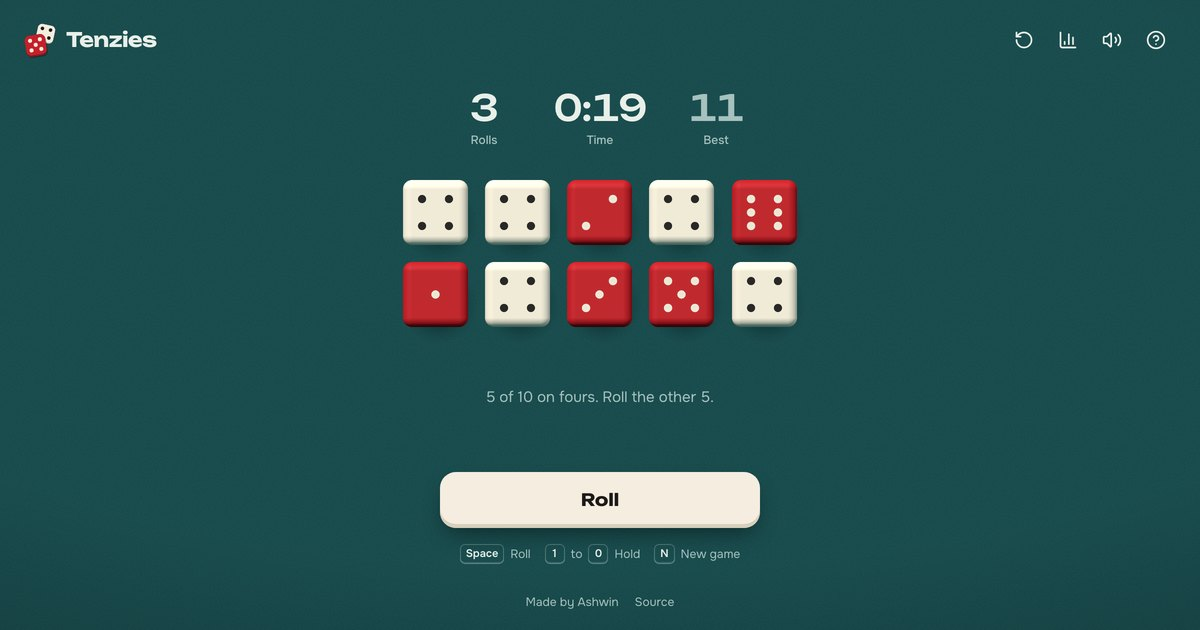
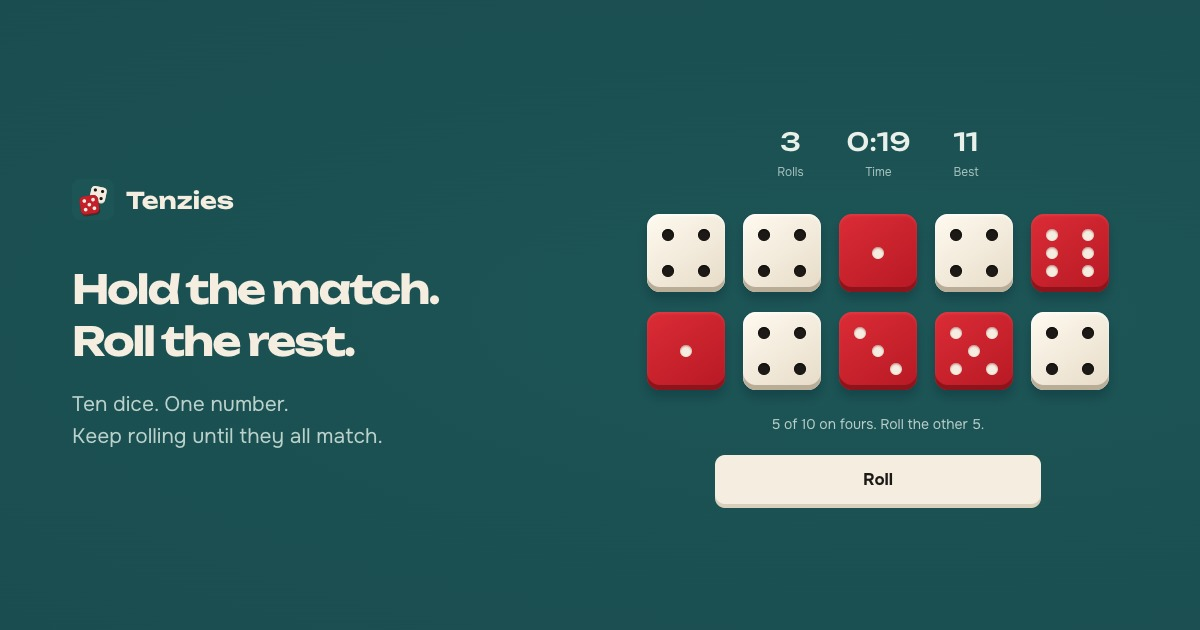
fix: refresh project OG card and cache version

diff --git a/docs/og.html b/docs/og.html
@@ -1,0 +1,23 @@
+<!doctype html>
+<html lang="en">
+<head>
+  <meta charset="utf-8">
+  <meta name="viewport" content="width=1200">
+  <title>Tenzies · Share image</title>
+  <style>
+@font-face{font-family:"Onest";src:url("../public/fonts/onest-latin.woff2") format("woff2");font-style:normal;font-weight:100 900;font-display:block}@font-face{font-family:"Unbounded";src:url("../public/fonts/unbounded-latin.woff2") format("woff2");font-style:normal;font-weight:100 900;font-display:block}
+*{box-sizing:border-box}html,body{margin:0;width:1200px;height:630px;overflow:hidden}body{font-synthesis:none;-webkit-font-smoothing:antialiased}main{position:relative;width:1200px;height:630px}.copy{position:absolute;left:72px;top:50%;transform:translateY(-50%);width:485px}.brand{display:flex;align-items:center;gap:12px;font-size:26px;font-weight:700}.brand img{width:42px;height:42px;flex:none}h1{margin:42px 0 22px;font-size:54px;line-height:1.08;letter-spacing:-.045em;font-weight:700}p{margin:0;font-size:21px;line-height:1.5}.visual{position:absolute;left:620px;top:50%;transform:translateY(-50%);width:508px}.accent{color:var(--accent)}
+body{font-family:Onest,sans-serif;background:#1d5557;color:#f4ede0;--accent:#f4ede0}main{background:radial-gradient(ellipse at 75% 50%,#24606400 0%,#143d3f55 100%)}h1{font-family:Unbounded,sans-serif;font-size:40px;line-height:1.3;letter-spacing:-.05em}p{color:#bbd1cb}.brand{font-family:Unbounded,sans-serif;font-size:23px}.visual{left:635px;width:486px}.stats{display:flex;justify-content:center;gap:43px;margin:0 0 34px;text-align:center;color:#e9efe9}.stats strong{display:block;font-family:Unbounded,sans-serif;font-size:25px;font-weight:500}.stats small{display:block;font-size:12px;color:#a6c1be;margin-top:7px}.dice{display:grid;grid-template-columns:repeat(5,78px);gap:20px 18px;padding:0 12px}.die{position:relative;height:78px;border-radius:13px;background:linear-gradient(145deg,#fffaf0,#e6dbc7);box-shadow:inset 0 2px 2px #ffffffaa,inset 0 -5px 0 #b9ad98,0 7px 10px #092e3466}.die.free{background:linear-gradient(145deg,#db2c37,#b71924);box-shadow:inset 0 2px 2px #ef535455,inset 0 -5px 0 #8e141c,0 7px 10px #092e3466}.pip{position:absolute;width:12px;height:12px;border-radius:50%;background:#1c1917;box-shadow:inset 0 1px 2px #0009;transform:translate(-50%,-50%)}.free .pip{background:#f4ede0;box-shadow:inset 0 1px 2px #8e141c88}.hint{text-align:center;margin:25px 0 22px;font-size:14px;color:#b8ceca}.roll{margin:0 auto;width:326px;padding:14px;text-align:center;color:#1c1917;background:#f4ede0;border-radius:10px;font-size:17px;font-weight:700;box-shadow:0 4px 0 #d9cfbd}
+  </style>
+</head>
+<body>
+  <main>
+    <div class="copy">
+      <div class="brand"><img src="../public/icon.svg" alt="">Tenzies</div>
+      <h1>Hold the match.<br>Roll the rest.</h1>
+      <p>Ten dice. One number.<br>Keep rolling until they all match.</p>
+    </div>
+    <div class="visual"><div class="stats"><div><strong>3</strong><small>Rolls</small></div><div><strong>0:19</strong><small>Time</small></div><div><strong>11</strong><small>Best</small></div></div><div class="dice"><div class="die "><i class="pip" style="left:27%;top:27%"></i><i class="pip" style="left:73%;top:27%"></i><i class="pip" style="left:27%;top:73%"></i><i class="pip" style="left:73%;top:73%"></i></div><div class="die "><i class="pip" style="left:27%;top:27%"></i><i class="pip" style="left:73%;top:27%"></i><i class="pip" style="left:27%;top:73%"></i><i class="pip" style="left:73%;top:73%"></i></div><div class="die free"><i class="pip" style="left:50%;top:50%"></i></div><div class="die "><i class="pip" style="left:27%;top:27%"></i><i class="pip" style="left:73%;top:27%"></i><i class="pip" style="left:27%;top:73%"></i><i class="pip" style="left:73%;top:73%"></i></div><div class="die free"><i class="pip" style="left:27%;top:27%"></i><i class="pip" style="left:73%;top:27%"></i><i class="pip" style="left:27%;top:50%"></i><i class="pip" style="left:73%;top:50%"></i><i class="pip" style="left:27%;top:73%"></i><i class="pip" style="left:73%;top:73%"></i></div><div class="die free"><i class="pip" style="left:50%;top:50%"></i></div><div class="die "><i class="pip" style="left:27%;top:27%"></i><i class="pip" style="left:73%;top:27%"></i><i class="pip" style="left:27%;top:73%"></i><i class="pip" style="left:73%;top:73%"></i></div><div class="die free"><i class="pip" style="left:27%;top:27%"></i><i class="pip" style="left:50%;top:50%"></i><i class="pip" style="left:73%;top:73%"></i></div><div class="die free"><i class="pip" style="left:27%;top:27%"></i><i class="pip" style="left:73%;top:27%"></i><i class="pip" style="left:50%;top:50%"></i><i class="pip" style="left:27%;top:73%"></i><i class="pip" style="left:73%;top:73%"></i></div><div class="die "><i class="pip" style="left:27%;top:27%"></i><i class="pip" style="left:73%;top:27%"></i><i class="pip" style="left:27%;top:73%"></i><i class="pip" style="left:73%;top:73%"></i></div></div><div class="hint">5 of 10 on fours. Roll the other 5.</div><div class="roll">Roll</div></div>
+  </main>
+</body>
+</html>

diff --git a/index.html b/index.html
@@ -12,14 +12,15 @@
     <meta property="og:title" content="Tenzies · Roll until all ten match" />
     <meta property="og:description" content="Roll ten dice, hold the ones that match and roll the rest until all ten show the same number." />
     <meta property="og:url" content="https://tenzies.ashwin.co.in/" />
-    <meta property="og:image" content="https://tenzies.ashwin.co.in/og.jpg" />
+    <meta property="og:image" content="https://tenzies.ashwin.co.in/og.jpg?v=3" />
+    <meta property="og:image:type" content="image/jpeg" />
     <meta property="og:image:width" content="1200" />
     <meta property="og:image:height" content="630" />
     <meta property="og:image:alt" content="Tenzies: ten red and ivory dice on petrol green felt" />
     <meta name="twitter:card" content="summary_large_image" />
     <meta name="twitter:title" content="Tenzies · Roll until all ten match" />
     <meta name="twitter:description" content="Roll ten dice, hold the ones that match and roll the rest until all ten show the same number." />
-    <meta name="twitter:image" content="https://tenzies.ashwin.co.in/og.jpg" />
+    <meta name="twitter:image" content="https://tenzies.ashwin.co.in/og.jpg?v=3" />
     <style>
       html, body { margin: 0; height: 100%; background: #1d5557; color-scheme: dark; }
       #root { height: 100%; opacity: 0; transition: opacity 280ms cubic-bezier(0.23, 1, 0.32, 1); }

diff --git a/docs/render-og.py b/docs/render-og.py
@@ -1,0 +1,27 @@
+from pathlib import Path
+from playwright.sync_api import sync_playwright
+
+root = Path(__file__).resolve().parent.parent
+output = (root / "public" if (root / "public").is_dir() else root) / "og.jpg"
+
+with sync_playwright() as playwright:
+    try:
+        browser = playwright.chromium.launch(channel="chrome", headless=True)
+    except Exception:
+        browser = playwright.chromium.launch(headless=True)
+    page = browser.new_page(viewport={"width": 1200, "height": 630}, device_scale_factor=1)
+    errors = []
+    page.on("pageerror", lambda error: errors.append(str(error)))
+    page.goto((root / "docs" / "og.html").as_uri(), wait_until="networkidle")
+    page.evaluate("document.fonts.ready")
+    page.evaluate("""async () => {
+        await Promise.all([...document.images].map(image => image.decode()));
+        if ([...document.fonts].some(font => font.status === 'error')) {
+            throw new Error('A share-card font failed to load');
+        }
+    }""")
+    if errors:
+        raise RuntimeError("\n".join(errors))
+    page.screenshot(path=str(output), type="jpeg", quality=92)
+    browser.close()
+print(f"Rendered {output} (1200 × 630)")
